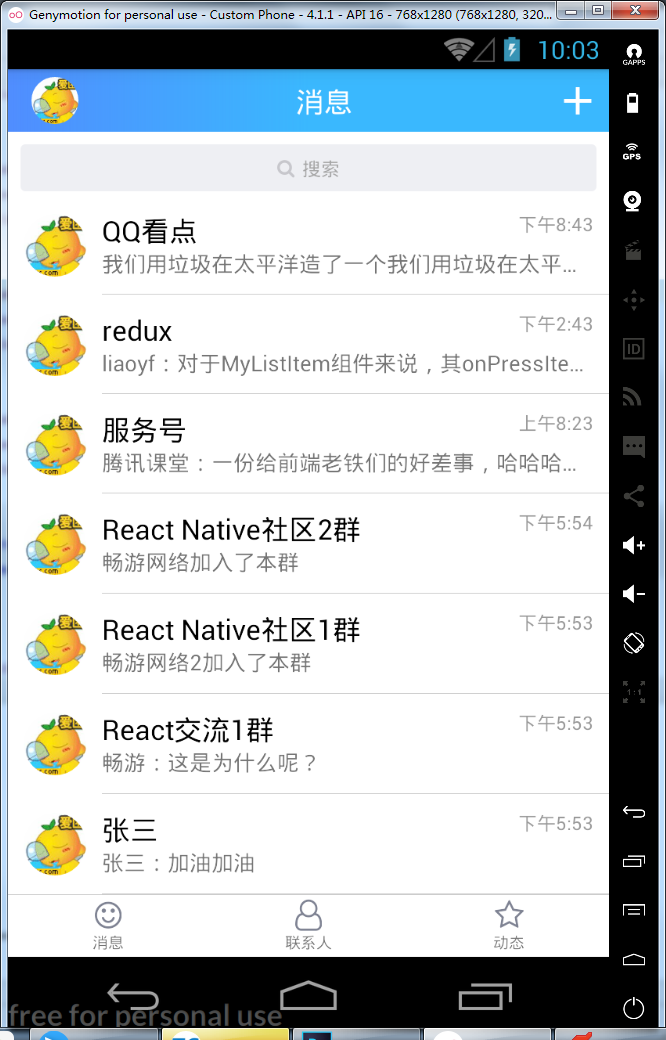
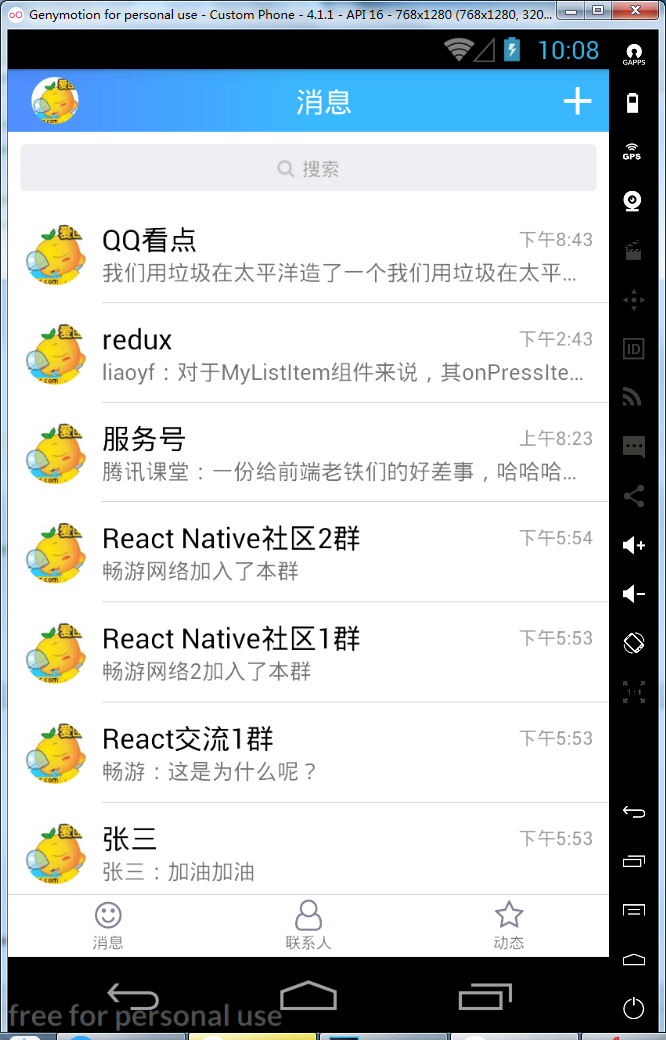
更新说明文件

diff --git a/js/components/home/Home.js b/js/components/home/Home.js
@@ -202,6 +202,10 @@ const styles = StyleSheet.create({
         color: '#000',
         fontSize: 18
     },
+    listContentTopTime: {
+        justifyContent: 'center',
+        alignItems: 'center'
+    },
     listContentTopTimeText: {
         color: '#999',
         fontSize: 12

diff --git a/js/App.js b/js/App.js
@@ -16,7 +16,7 @@ const AwesomeProject = StackNavigator({
         screen: Home
     }
 }, {
-    initialRouteName: 'Home'
+    // initialRouteName: 'Home'
 });
 
 AppRegistry.registerComponent('AwesomeProject', () => AwesomeProject);
